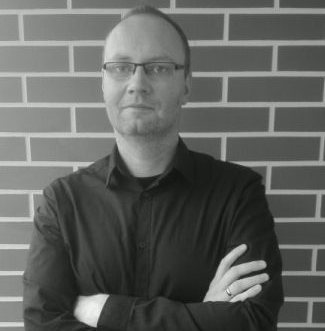
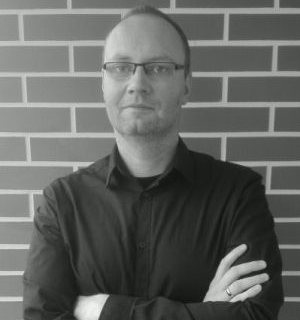
unified photo size

diff --git a/index.html b/index.html
@@ -82,16 +82,14 @@
                 <h3>Katarzyna Nagel</h3>
 
                 <figure class="photo">
-                    <a target="_blank" href="https://Auraya33.github.io"><img src="assets/photo/KN.jpg" alt="Katarzyna Nagel"></a>
-                    <figcaption>Kasia</figcaption>
+                    <a target="_blank" href="https://Auraya33.github.io"><img src="assets/photo/KN.png" alt="Katarzyna Nagel"></a>
                 </figure>
             </div>
             <div class="person">
                 <h3>Justyna Bednarko</h3>
 
                 <figure class="photo photo-rotate">
-                   <a target="_blank" href="https://JustynaBed.github.io"><img src="assets/photo/JB.jpg" alt="Justyna Bednarko"></a>
-                    <figcaption>Justyna</figcaption>
+                   <a target="_blank" href="https://JustynaBed.github.io"><img src="assets/photo/JB.png" alt="Justyna Bednarko"></a>
                 </figure>
             </div>
             <div class="person">
@@ -99,14 +97,12 @@
 
                 <figure class="photo">
                     <a target="_blank" href="https://EwaWWW.github.io"><img src="assets/photo/EW.png" alt="Ewa Węgierska"></a>
-                    <figcaption>Ewa</figcaption>
                 </figure>
             </div>
             <div class="person">
                 <h3>Paweł Szyposzyński</h3>
                 <figure class="photo photo-rotate">
                     <a target="_blank" href="https://Pablo-es.github.io"><img src="assets/photo/PS.jpg" alt="Paweł Szyposzynski"></a>
-                    <figcaption>Paweł</figcaption>
                 </figure>
             </div>
         </div>
